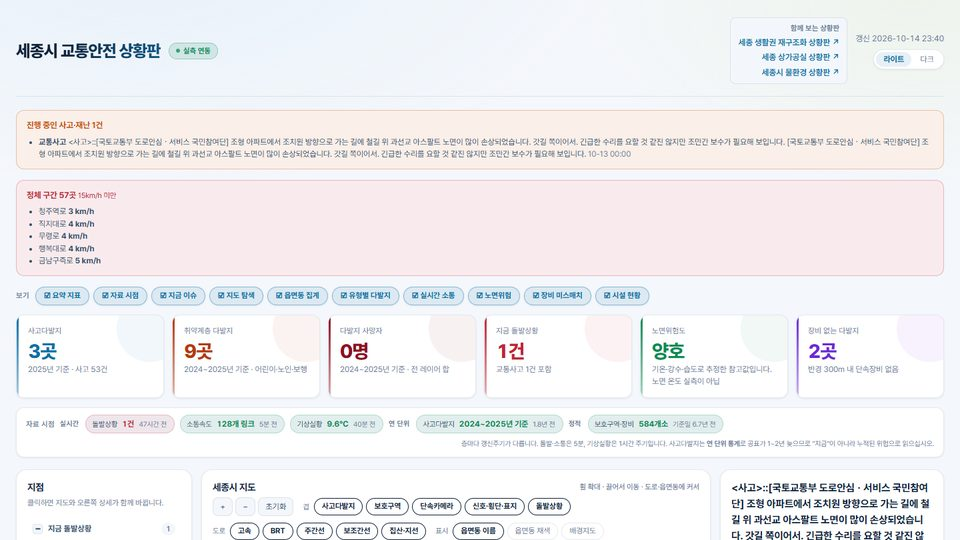
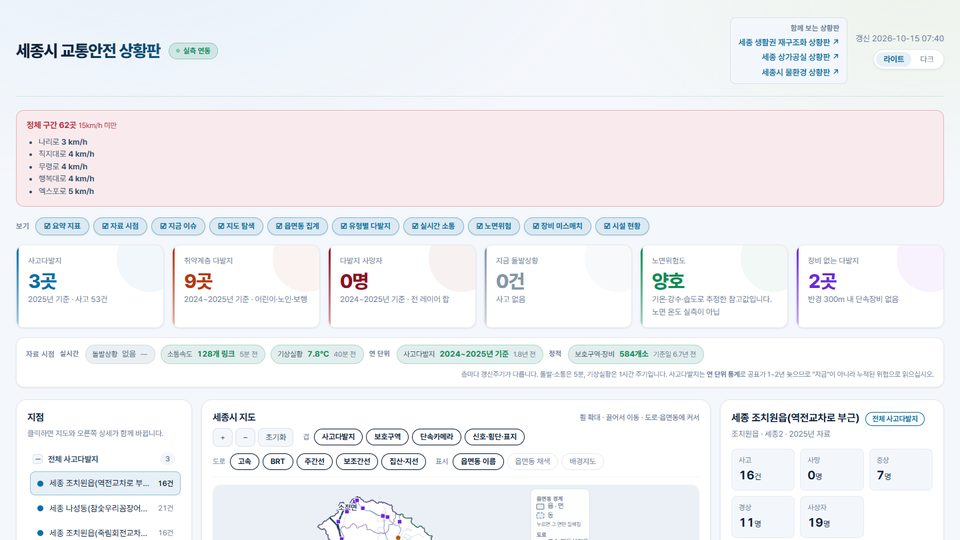
미리보기 그림 갱신(새 3D 건물 표현)

diff --git a/tools/make_thumbs.py b/tools/make_thumbs.py
@@ -21,7 +21,7 @@ OUT = os.path.join(HERE, "assets", "thumbs")
 TMP = os.path.join(HERE, "tmp")
 BASE = "https://ysong86.github.io/"
 SHOTS = {"water": "water_sejong/", "traffic": "traffic_sejong/"}
-FRAMES = {"zone": ("zone_sejong/preview.mp4", 9.0), "vacant": ("vacant_sejong/preview.mp4", 17.5)}
+FRAMES = {"zone": ("zone_sejong/preview.mp4", 9.0), "vacant": ("vacant_sejong/preview.mp4", 18.8)}
 W = 960
 
 
